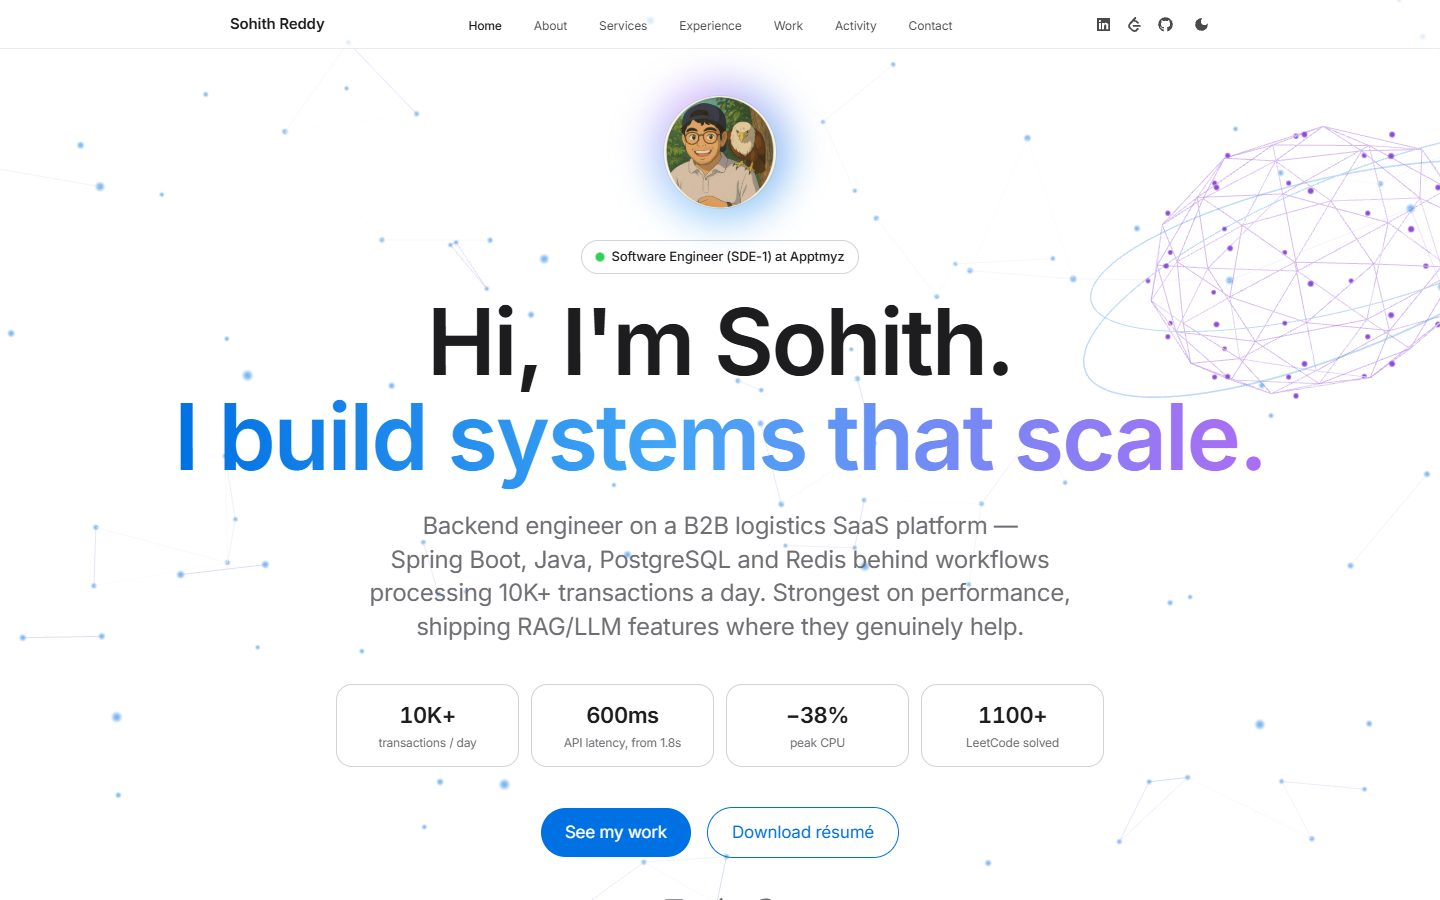
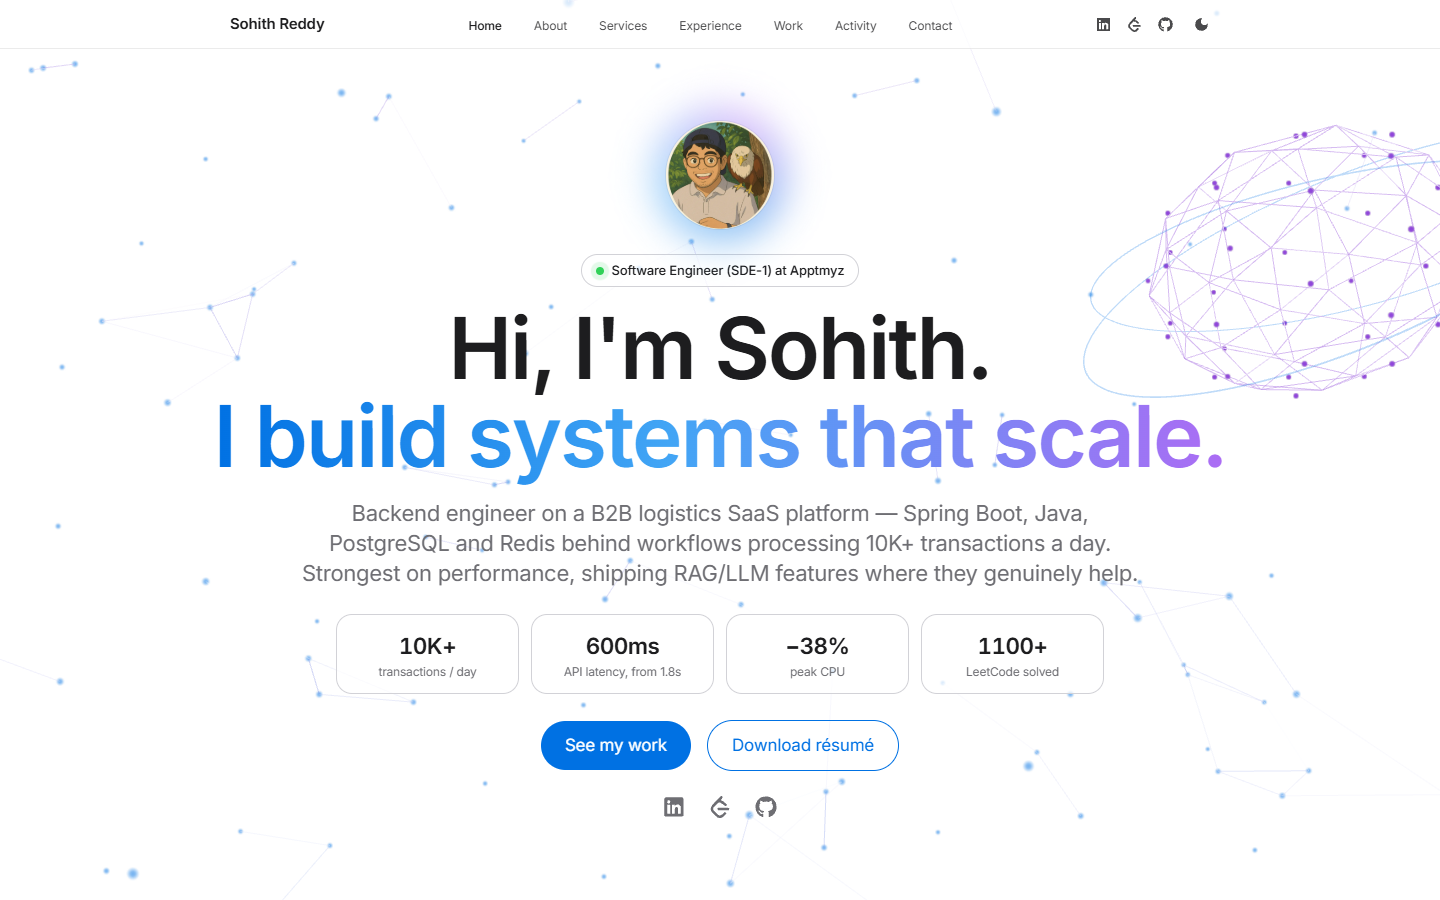
Fit the whole hero on one screen
Size the avatar, headline, text, stat chips, buttons and spacing from the
window height as well as its width, so nothing falls below the fold on
common desktop, laptop, tablet and phone sizes. Stat chips sit in one
row on phones. Refresh the README hero screenshots.

Changed region(s): [[0.125, 0.3422, 0.875, 0.9644], [0.7812, 0.1244, 1.0, 0.4356], [0.4062, 0.0933, 0.5938, 0.3111]]

diff --git a/app/components/Header.jsx b/app/components/Header.jsx
@@ -26,15 +26,15 @@ const Header = () => {
   return (
     <section
       id="top"
-      className="min-h-screen flex flex-col items-center justify-center text-center pt-24 pb-16"
+      className="hero-section flex flex-col items-center justify-center text-center"
     >
       <div className="apple-container hero-container flex flex-col items-center">
-        <motion.div variants={rise} initial="hidden" animate="show" custom={0} className="relative mb-8">
+        <motion.div variants={rise} initial="hidden" animate="show" custom={0} className="relative">
           <span className="avatar-glow" aria-hidden="true" />
           <Image
             src={assets.profile_img}
             alt="Sohith Reddy"
-            className="relative rounded-full w-28 h-28 object-cover ring-1 ring-[var(--apple-card-border)]"
+            className="hero-avatar relative rounded-full object-cover ring-1 ring-[var(--apple-card-border)]"
             priority
           />
         </motion.div>
@@ -44,7 +44,7 @@ const Header = () => {
           initial="hidden"
           animate="show"
           custom={1}
-          className="status-pill mb-5"
+          className="status-pill hero-gap"
         >
           <span className="live-dot" aria-hidden="true" />
           Software Engineer (SDE-1) at Apptmyz
@@ -55,7 +55,7 @@ const Header = () => {
           initial="hidden"
           animate="show"
           custom={2}
-          className="apple-hero hero-title"
+          className="apple-hero hero-title hero-gap-sm"
         >
           {/* Two blocks: on wide screens each line stays whole; on narrow
               screens each one wraps and balances on its own. */}
@@ -70,7 +70,7 @@ const Header = () => {
           initial="hidden"
           animate="show"
           custom={3}
-          className="apple-subhead max-w-3xl mt-6"
+          className="apple-subhead hero-sub hero-gap-sm"
         >
           Backend engineer on a B2B logistics SaaS platform&nbsp;— Spring Boot, Java,
           PostgreSQL and Redis behind workflows processing 10K+ transactions a
@@ -83,14 +83,14 @@ const Header = () => {
           initial="hidden"
           animate="show"
           custom={4}
-          className="grid grid-cols-2 sm:grid-cols-4 gap-3 mt-10 w-full max-w-3xl"
+          className="hero-stats grid grid-cols-4 gap-2 sm:gap-3 hero-gap w-full max-w-3xl"
         >
           {heroStats.map(({ value, label }) => (
             <li key={label} className="hero-stat">
-              <span className="block text-[20px] sm:text-[22px] font-semibold tracking-[-0.02em] text-primary tabular-nums">
+              <span className="hero-stat-value block font-semibold tracking-[-0.02em] text-primary tabular-nums">
                 {value}
               </span>
-              <span className="block text-[12px] text-secondary mt-0.5">{label}</span>
+              <span className="hero-stat-label block text-secondary mt-0.5">{label}</span>
             </li>
           ))}
         </motion.ul>
@@ -100,7 +100,7 @@ const Header = () => {
           initial="hidden"
           animate="show"
           custom={5}
-          className="flex flex-wrap items-center justify-center gap-4 mt-10"
+          className="hero-cta flex flex-wrap items-center justify-center gap-4 hero-gap"
         >
           <a href="#work" className="btn-apple">
             See my work
@@ -119,7 +119,7 @@ const Header = () => {
           initial="hidden"
           animate="show"
           custom={6}
-          className="flex items-center gap-6 mt-10"
+          className="flex items-center gap-6 hero-gap"
         >
           {socials.map(({ Icon, href, label }) => (
             <a

diff --git a/app/globals.css b/app/globals.css
@@ -280,6 +280,91 @@ body {
   padding-inline: 22px;
 }
 
+/* --- Hero: everything fits one screen -------------------------------
+   Sizes follow the window height as well as its width, so on a short
+   window the avatar, headline, copy, chips and buttons shrink together
+   instead of pushing content below the fold. */
+.hero-section {
+  --hg: clamp(0.75rem, 2.8vh, 1.75rem);   /* gap between hero blocks */
+  --hg-sm: clamp(0.5rem, 1.8vh, 1.25rem);
+  min-height: 100svh;
+  padding-top: calc(var(--apple-nav-height) + 1.5vh);
+  padding-bottom: 2.5vh;
+}
+.hero-gap { margin-top: var(--hg); }
+.hero-gap-sm { margin-top: var(--hg-sm); }
+.hero-section > div > :first-child { margin-top: 0; }
+.hero-avatar {
+  width: clamp(3.5rem, 12vh, 7rem);
+  height: clamp(3.5rem, 12vh, 7rem);
+}
+.hero-title {
+  font-size: clamp(2.25rem, min(6.4vw, 9.5vh), 6.25rem);
+  line-height: 1.04;
+}
+.hero-sub {
+  max-width: 56rem;
+  font-size: clamp(0.9375rem, min(2.4vw, 2.5vh), 1.375rem);
+  line-height: 1.38;
+}
+.hero-stat {
+  padding: clamp(0.4rem, 1.5vh, 0.875rem) 0.75rem;
+}
+.hero-stat-value {
+  font-size: clamp(1rem, 2.6vh, 1.4rem);
+}
+.hero-stat-label {
+  font-size: 12px;
+  line-height: 1.25;
+}
+/* Phones: four compact chips in one row, slightly smaller copy. */
+@media (max-width: 639px) {
+  .hero-stat {
+    padding: 0.5rem 0.25rem;
+    border-radius: 12px;
+  }
+  .hero-stat-value {
+    font-size: 1rem;
+  }
+  .hero-stat-label {
+    font-size: 10px;
+  }
+  .hero-sub {
+    font-size: clamp(0.8125rem, 2.3vh, 0.9375rem);
+    line-height: 1.35;
+  }
+  .hero-cta .btn-apple,
+  .hero-cta .btn-apple-secondary {
+    font-size: 0.9375rem;
+    padding-inline: 1.1rem;
+  }
+}
+.hero-cta .btn-apple,
+.hero-cta .btn-apple-secondary {
+  padding-block: clamp(0.5rem, 1.6vh, 0.75rem);
+}
+/* Small, short phones: tighten spacing so the whole hero still fits. */
+@media (max-width: 639px) and (max-height: 720px) {
+  .hero-section {
+    --hg: 0.5rem;
+    --hg-sm: 0.375rem;
+  }
+  .hero-avatar {
+    width: 3.25rem;
+    height: 3.25rem;
+  }
+  .hero-title {
+    font-size: 2rem;
+  }
+  .hero-cta .btn-apple,
+  .hero-cta .btn-apple-secondary {
+    padding-block: 0.4rem;
+  }
+}
+.status-pill {
+  padding-block: clamp(0.25rem, 0.9vh, 0.375rem);
+}
+
 /* The hero gets a wider well than the 1024px content column so the
    headline can run on one line per sentence on large screens. */
 .hero-container {
@@ -287,10 +372,6 @@ body {
 }
 /* Scales with the viewport so "I build systems that scale." fits on one
    line from 1024px up; below that it wraps and balances. */
-.hero-title {
-  font-size: clamp(2.75rem, 6.4vw, 6.25rem);
-  line-height: 1.04;
-}
 @media (min-width: 1024px) {
   .hero-title-line {
     white-space: nowrap;
